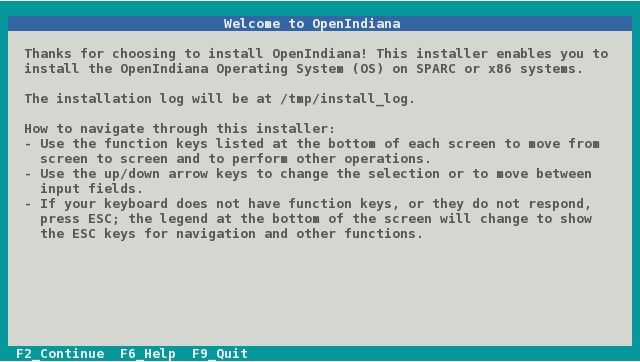
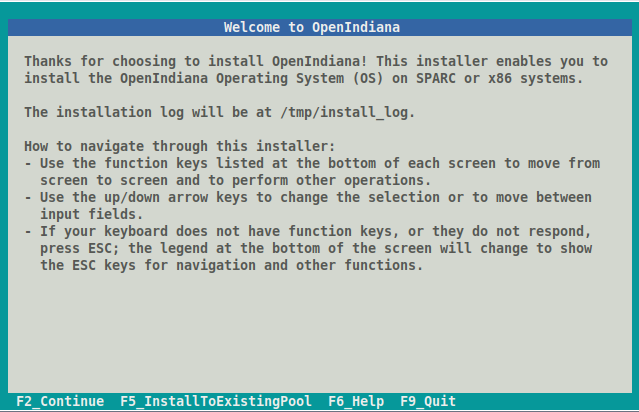
Document zpool installation

diff --git a/docs/handbook/getting-started.md b/docs/handbook/getting-started.md
@@ -1218,7 +1218,7 @@ Mirrors and RAIDZ are now supported install options!
 
 </div>
 
-
+<a name="welcome-screen"></a>
 ![Welcome Screen](./images/text_install/text_install_01.png)
 
 The text based installation process begins with the welcome screen, which provides the following information:
@@ -1231,7 +1231,11 @@ The text based installation process begins with the welcome screen, which provid
 At any time during the installation process you may press the `F6` key for context specific help.
 </div>
 
-When ready to begin, press the `F2` key to continue.
+Text installer allows you to do either usual installation or installation to existing ZFS pool.
+
+If you are doing clean installation, when ready to begin, press the `F2` key to continue.
+
+If you intend to install OpenIndiana to existing ZFS pool, see [Install OpenIndiana to existing ZFS pool](#install-openindiana-to-existing-zfs-pool).
 
 ![Select_Disks](./images/text_install/text_install_02.png)
 
@@ -1492,6 +1496,42 @@ When booting from the text based installer, you are presented with the following
 
 The procedure for installing from the text based installer follows the same process as the previously described [Install OpenIndiana using the Text Installer](./getting-started.md#install-openindiana-using-the-text-installer)
 
+### Install OpenIndiana to existing ZFS pool
+
+Starting from OpenIndiana 2017.10, the text installer allows you to perform installation to existing ZFS pool.
+It will create new boot environment in the pool and install OpenIndiana there.
+
+This option can be useful when you want to do some customizations to root ZFS pool (for example, enable compression) or install
+OpenIndiana to pool where another operating system is already installed (for example, prior version of OpenIndiana or even FreeBSD).
+It is recommended to use minimal or server installation images to perform such installations.
+
+<i class="fa fa-info-circle fa-lg" aria-hidden="true"></i> **NOTE:**
+<div class="well">
+This feature is intended for advanced users.
+It's assumed you know what you are doing.
+Multi-booting of another operating system and OpenIndiana on the same root pool can be possible, but such configuration is out of scope of this tutorial and is not supported.
+</div>
+
+To start installation to existing ZFS pool, press `F5` key when [Welcome Screen](#welcome-screen) is presented.
+
+Installer will present you a 'Pools' screen.
+
+![Pools Screen](./images/text_install/text_install_pools_screen.png)
+
+On this screen installer will allow you to select the root pool for your new installation and boot environment name (which should be unique).
+
+By default installer will install OpenIndiana boot loader and activate created boot environment.
+If you don't want installer to touch any boot-related options, uncheck `Overwrite pool's boot configuration` checkbox.
+This can be useful when you install OpenIndiana to ZFS pool where another operating system is already installed and you want to configure boot loader manually.
+
+If you don't see your pool in the list of available pools, check `/tmp/install_log`.
+The most frequent issue is that there's not enough free space in the pool.
+
+The next steps for [usual installation](#install-openindiana-using-the-text-installer) and installation to existing ZFS pool are the same.
+
+As there's possibly already another OS instance installed to the selected ZFS pool, no additional users or filesystems (like `rpool/export`) are created during installation.
+Swap and dump ZFS volumes also are not created and should be added manually after installation.
+Only root user will be available in created boot environment.
 
 ## Troubleshooting Installations
 
